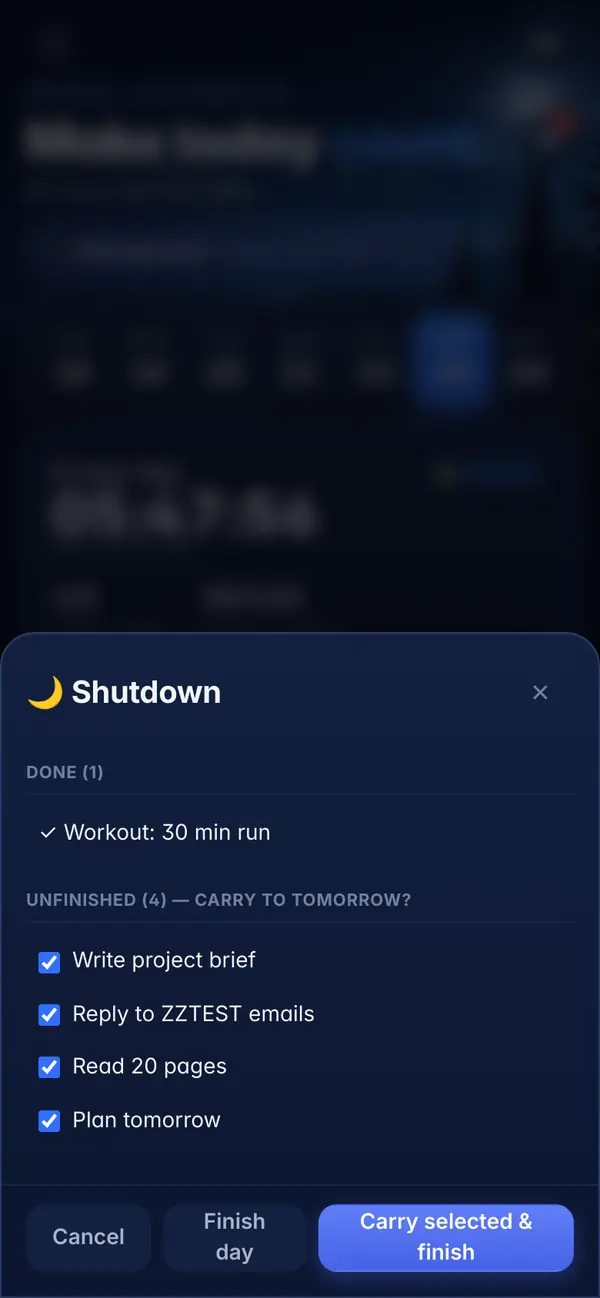
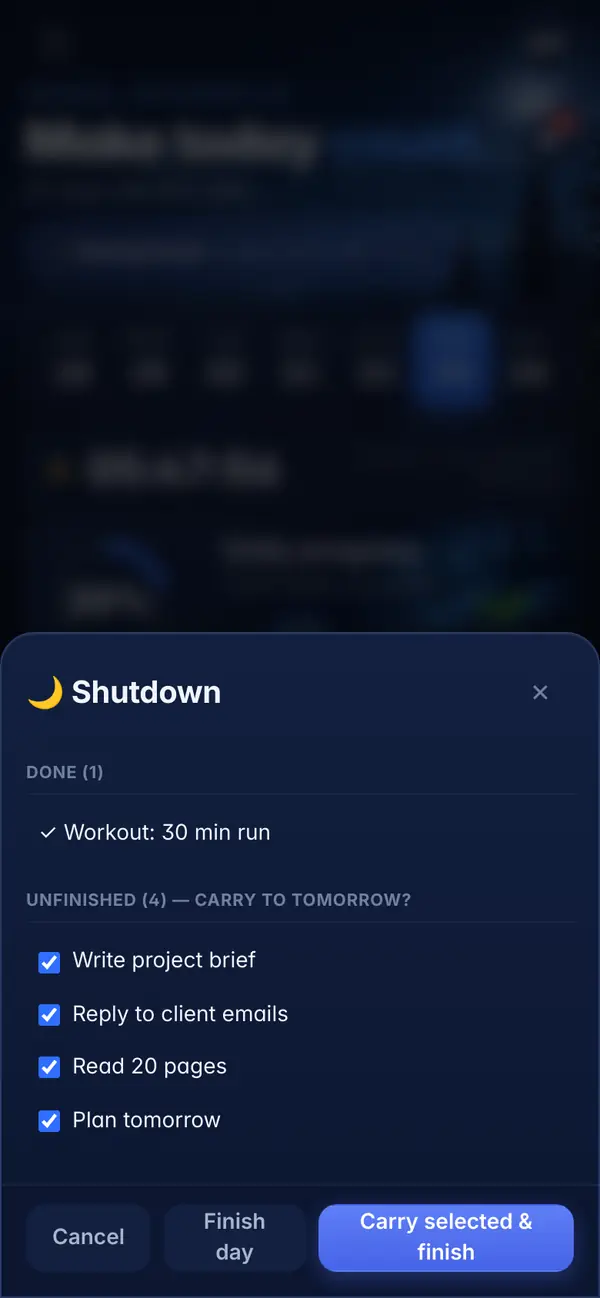
chore(tour): regenerate tutorial screenshots with a normal demo name/task (no ZZTEST), current compact 8h strip

diff --git a/src/assets/tour/slides.js b/src/assets/tour/slides.js
@@ -1,5 +1,5 @@
 // Onboarding tutorial slides. Every image is a real screenshot of the app (390x844 iPhone viewport) taken with demo data
-// only ("ZZTEST" accounts), resized to 600px wide and stored as local WebP (no CDN, ~35 KB each).
+// only (fictional demo account), resized to 600px wide and stored as local WebP (no CDN, ~35 KB each).
 // Captions only describe features that exist: snow/rain/fireplace are visual canvas animations, the four music tracks are
 // generated in the browser (no real rain audio) and play only after the user taps Play.
 import day from './s01_day.webp';
